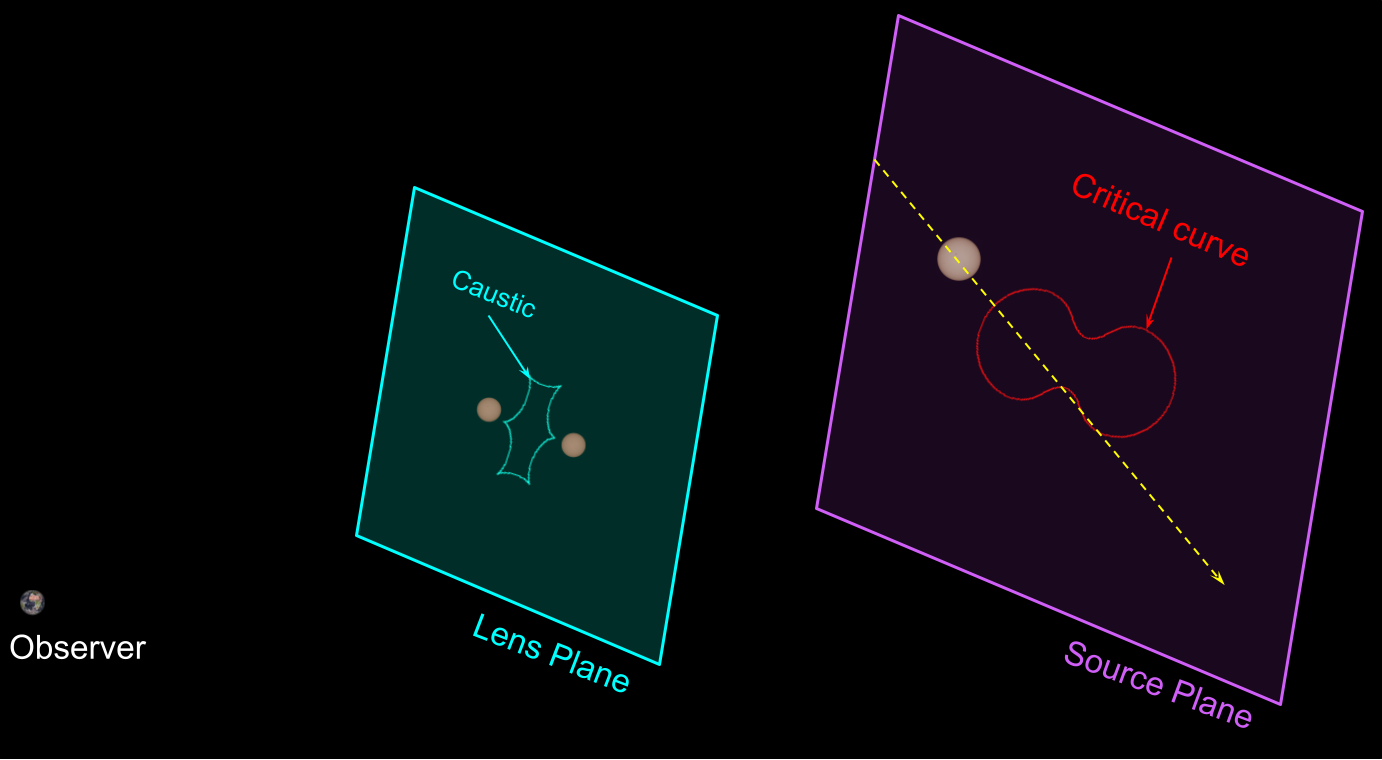
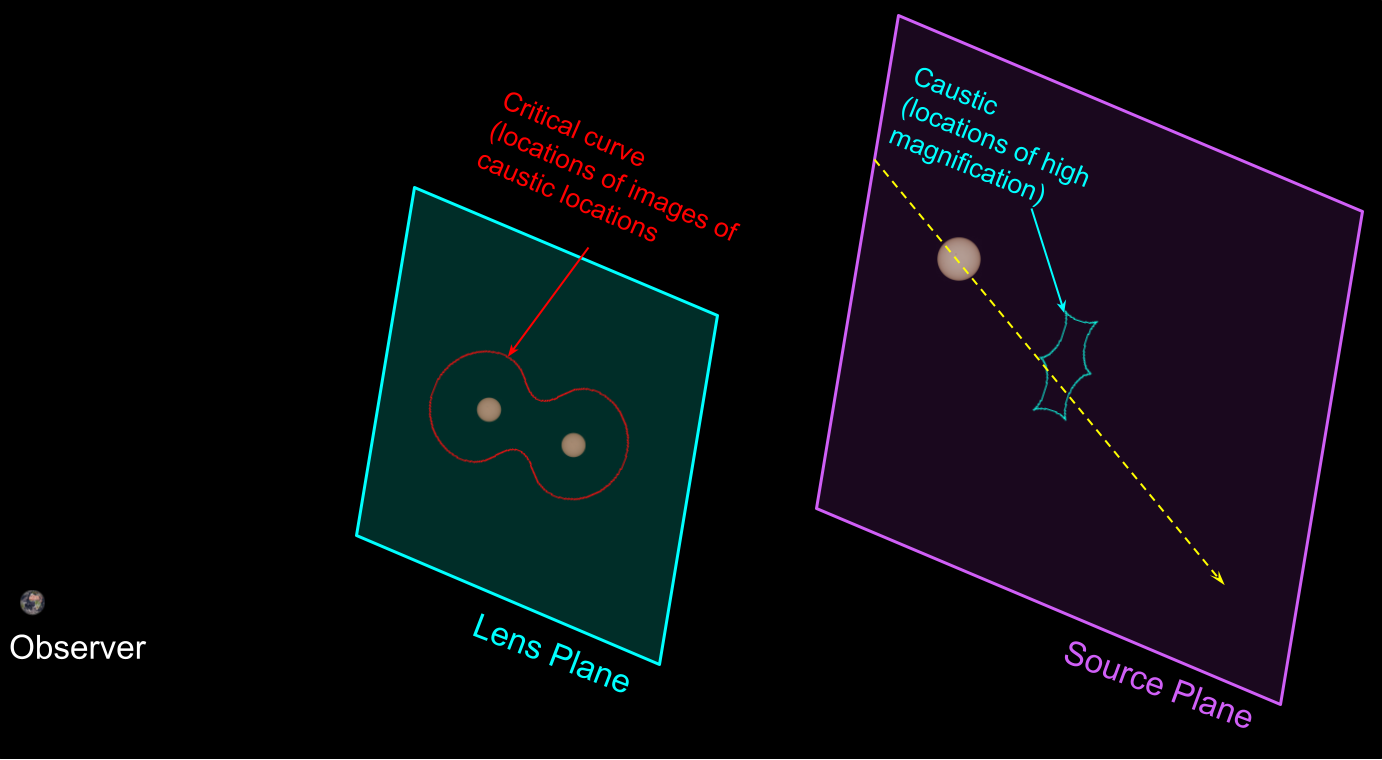
Corrected labeling of caustic and critical curves

diff --git a/chapter3/binary_lensing.html b/chapter3/binary_lensing.html
@@ -304,7 +304,7 @@
       </section>
 
       <section>
-          <h1>Critical Curves</h1>
+          <h1>Caustics</h1>
           <p>As the source moves behind the binary lens, there are certain
         positions in the source plane for which the resulting Jacobian determinant
               drops to zero.</p>
@@ -317,15 +317,15 @@
           />
               </div>
               <div class="col-sm">
-                  <p>These positions form graceful curves, known as 'critical curves'.</p>
-                  <p>Theoretically, as the source crosses the critical curve, the magnification
+                  <p>These positions form spikey structures, known as 'caustics'.</p>
+                   <p>Theoretically, as the source crosses these structures, the magnification
             becomes infinite (curtailed by finite source effects).</p>
               </div>
           </div>
       </section>
 
       <section>
-          <h1>Caustics</h1>
+          <h1>Critical Curves</h1>
           <div class="row">
               <div class="col-sm-8">
                   <img
@@ -335,9 +335,9 @@
           />
               </div>
               <div class="col-sm">
-                  <p>Applying the lens equation, the positions of the critical curve in the source
+                  <p>Applying the lens equation, the positions of the caustic in the source
                 plane can be mapped into the lens plane geometry -
-                resulting in generally spiky curves known as 'caustics'.
+                resulting in graceful curves known as 'critical curves'.
             </p>
               </div>
           </div>

diff --git a/chapter3/binary_lensing_and_other_effects.html b/chapter3/binary_lensing_and_other_effects.html
@@ -779,7 +779,7 @@
       </section>
 
       <section>
-          <h1>Critical Curves</h1>
+          <h1>Caustics</h1>
           <p>As the source moves behind the binary lens, there are certain
         positions in the source plane for which the resulting Jacobian determinant
               drops to zero.</p>
@@ -792,15 +792,15 @@
           />
               </div>
               <div class="col-sm">
-                  <p>These positions form graceful curves, known as 'critical curves'.</p>
-                  <p>Theoretically, as the source crosses the critical curve, the magnification
+                  <p>These positions form spikey structures, known as 'caustics'.</p>
+                   <p>Theoretically, as the source crosses these structures, the magnification
             becomes infinite (curtailed by finite source effects).</p>
               </div>
           </div>
       </section>
 
       <section>
-          <h1>Caustics</h1>
+          <h1>Critical Curves</h1>
           <div class="row">
               <div class="col-sm-8">
                   <img
@@ -810,9 +810,9 @@
           />
               </div>
               <div class="col-sm">
-                  <p>Applying the lens equation, the positions of the critical curve in the source
+                  <p>Applying the lens equation, the positions of the caustic in the source
                 plane can be mapped into the lens plane geometry -
-                resulting in generally spiky curves known as 'caustics'.
+                resulting in graceful curves known as 'critical curves'.
             </p>
               </div>
           </div>

diff --git a/chapter3/binary_lensing_extended.html b/chapter3/binary_lensing_extended.html
@@ -296,7 +296,7 @@
       </section>
 
       <section>
-          <h1>Critical Curves</h1>
+          <h1>Caustics</h1>
           <p>As the source moves behind the binary lens, there are certain
         positions in the source plane for which the resulting Jacobian determinant
               drops to zero.</p>
@@ -309,15 +309,15 @@
           />
               </div>
               <div class="col-sm">
-                  <p>These positions form graceful curves, known as 'critical curves'.</p>
-                  <p>Theoretically, as the source crosses the critical curve, the magnification
+                  <p>These positions form spikey structures, known as 'caustics'.</p>
+                   <p>Theoretically, as the source crosses these structures, the magnification
             becomes infinite (curtailed by finite source effects).</p>
               </div>
           </div>
       </section>
 
       <section>
-          <h1>Caustics</h1>
+          <h1>Critical Curves</h1>
           <div class="row">
               <div class="col-sm-8">
                   <img
@@ -327,9 +327,9 @@
           />
               </div>
               <div class="col-sm">
-                  <p>Applying the lens equation, the positions of the critical curve in the source
+                  <p>Applying the lens equation, the positions of the caustic in the source
                 plane can be mapped into the lens plane geometry -
-                resulting in generally spiky curves known as 'caustics'.
+                resulting in graceful curves known as 'critical curves'.
             </p>
               </div>
           </div>
